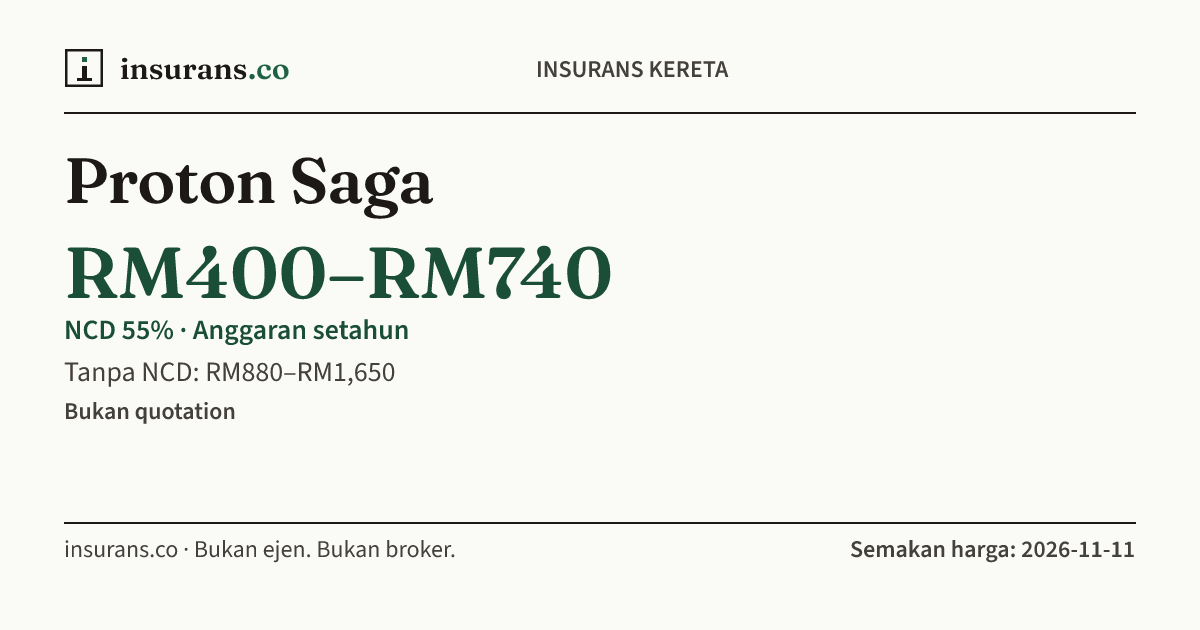
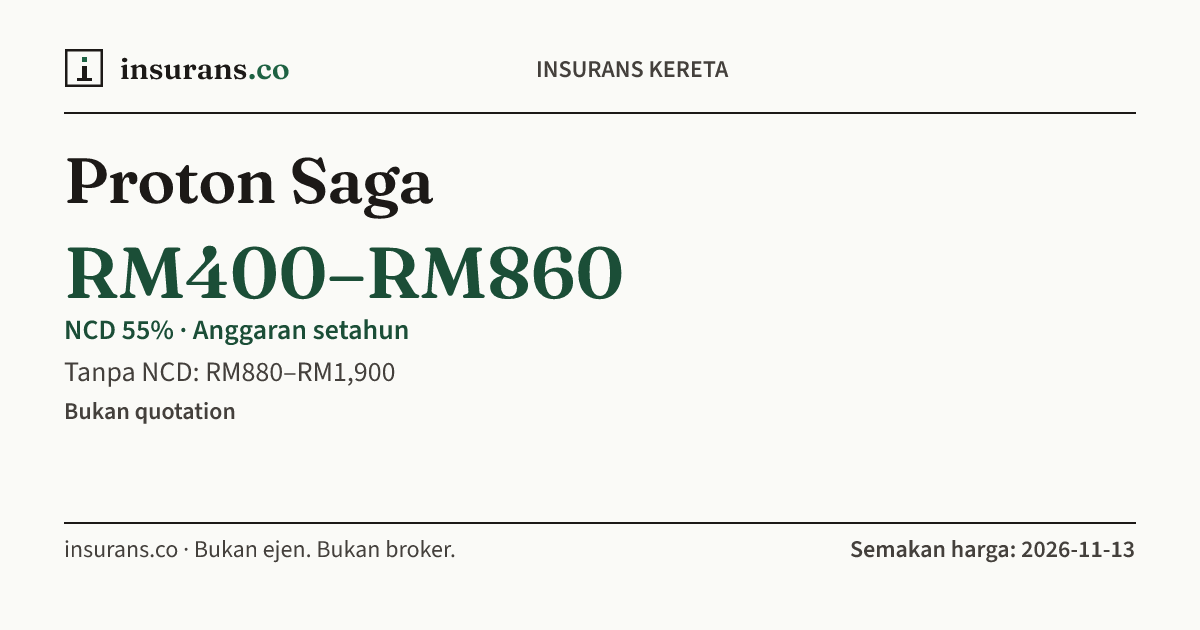
fix(content): knock-for-knock keeps NCD; Saga range to RM400–860
Two corrections on the car-insurance pages.

- Hub FAQ "Kalau accident bukan salah saya…" said a knock-for-knock claim
  affects NCD and you can appeal later. That is wrong, and contradicted
  the claim guide, the NCD guide and the NCD calculator. It now says that
  with a comprehensive policy you claim OD-KfK from your own insurer and
  keep your NCD when the other party was negligent and the police confirm
  you were not at fault, lists when OD-KfK does not apply, and links to
  the claim guide and PIAM. The older "one claim resets NCD" warning on
  the same page is qualified to match. Sources: PIAM motor page and the
  OD-KfK guide it links to.
- Proton Saga: market-value ceiling RM42,000 to RM50,000 (the 1.5 Premium
  is RM49,990). NCD 55% RM400–740 becomes RM400–860; no NCD RM880–1,650
  becomes RM880–1,900; regional ranges recomputed with the same factors
  as the other models; OG card regenerated; llms-full.txt updated.

Independent review (Gemini 4 Hydrogen) recomputed the Saga figures from
the 2015 Motor Tariff and checked every statement in the FAQ against the
sources: docs/fix-review/hydrogen-review-raw.md.

Claude-Session: https://claude.ai/code/session_01J1ZYsbVSFhx8LHwPN2cRMx

Changed region(s): [[0.4008, 0.3921, 0.5242, 0.4825], [0.2775, 0.573, 0.3392, 0.6032]]

diff --git a/docs/fix-review/hydrogen-review-raw.md b/docs/fix-review/hydrogen-review-raw.md
@@ -1,0 +1,27 @@
+# Review of the knock-for-knock and Saga fix (Gemini 4 Hydrogen high, 13 Nov 2026)
+
+Raw output of a read-only review of the uncommitted diff. Its three findings (stale OG image, exclusion wording, dateModified and the unqualified warning) were fixed afterwards.
+
+Verdict: Ship after changes
+
+Findings
+
+1. Major — public/og/car-insurance/proton-saga.png (copied to dist/og/car-insurance/proton-saga.png; generated by scripts/generate-og.mjs:233-312): The OG image was not regenerated after updating src/data/car-models.json. Visually inspecting the PNG shows "RM400–RM740", "Tanpa NCD: RM880–RM1,650", and "Semakan harga: 2026-11-11", contradicting og:image:alt ("RM 400–RM 860", "RM 880–RM 1,900") and proton-saga data (premiumReviewed "2026-11-13"). Fix: run bun run assets:og and commit the updated proton-saga.png.
+
+2. Minor — src/pages/car-insurance/index.astro:532: The exclusion "jika kenderaan satu lagi berdaftar di luar negara dan diinsuranskan di luar Malaysia" is narrower than the Jom Level Up guide ("If the vehicle driven is foreign-registered, and the insurer/takaful operator is not located in Malaysia"), and the FAQ omits that the other vehicle must be identified (covered in src/pages/guides/how-to-claim/index.astro:147) and that excess/CART can be recovered from the third-party insurer. Fix: optionally note either vehicle foreign-registered/insured and identifiable third party, or keep as-is given the /guides/how-to-claim/ link.
+
+3. Nit — src/pages/car-insurance/index.astro:40,62: dateModified remains "2026-11-12" despite the FAQ edit (and pre-existing line 280 still says "Satu claim je, NCD anda reset ke 0%" without OD-KfK qualification). Fix: update dateModified to "2026-11-13".
+
+Verified
+
+- Sources and copy: Fetched both PIAM and Jom Level Up pages. All claims in the new FAQ match the sources in natural Malay, align with guides/how-to-claim, guides/ncd-explained, and tools/ncd-calculator, and car-insurance/index.astro has no FAQPage JSON-LD carrying the old answer.
+- Scope and diff: Checked git status, git diff, and JSON equality against HEAD; only the three listed files changed, and only proton-saga changed among the 39 models with formatting intact.
+- Pricing math: Verified 2015 Motor Tariff Peninsular formula (273.80/305.50 + 26*(SI_k - 1)), NCD multipliers (0.75, 0.70, 0.6167, 0.55, 0.45), and regional multipliers (0.94, 0.96) rounded half-up to RM10 on perodua-axia, perodua-myvi, toyota-vios, and proton-saga. Saga min is unchanged (880/400), max and tiers match (1900, 1430, 1330, 1170, 1050, 860; pantaiTimur 380–810, borneo 380–830), and title total RM470–950 equals RM400–860 + RM70–90.
+- Build and dist scan: Ran bun install --frozen-lockfile && bun run build && bun run check (180 pages built, 0 errors, 0 warnings). Checked dist/ HTML and llms-full.txt: Saga title, meta, og tags, H1, body, JSON-LD, homepage, hub, and related-model cards all reflect RM400–RM860 / RM880–RM1,900 / RM28,000–RM50,000 with no stale RM740, RM1,650, or RM42,000 for Saga outside the OG PNG.
+
+Could not verify
+
+- src/data/glossary.json (file does not exist in this repository).
+- Live client-side JS execution of AnswerCard/ModelPicker/NCD calculator (checked SSR HTML and embedded JSON only).
+
+Summary: Read-only review; 0 files touched. Found stale Proton Saga OG PNG and minor FAQ/dateModified gaps; verified sources, tariff/NCD/regional math, diff scope, build (180 pages), astro check (0 errors), and dist/ consistency.
